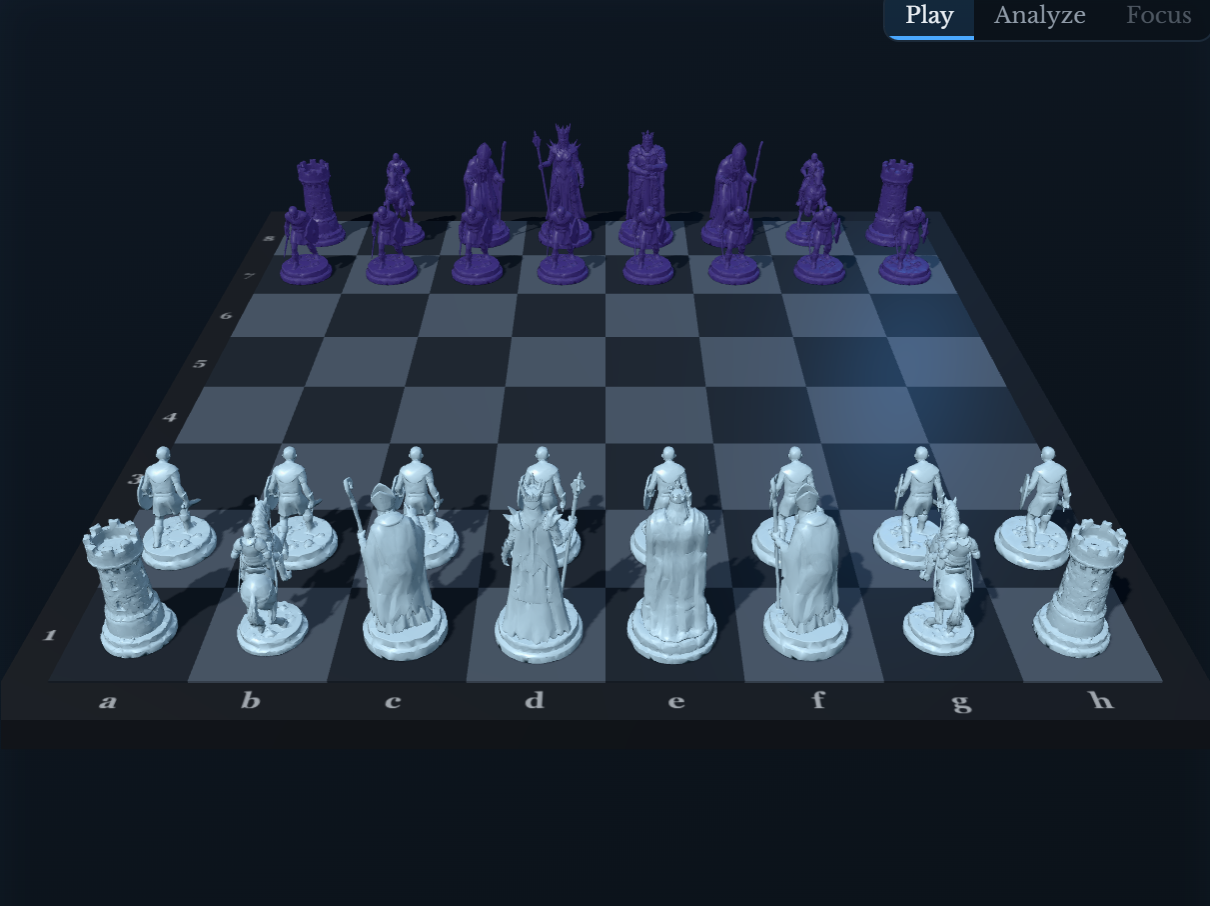
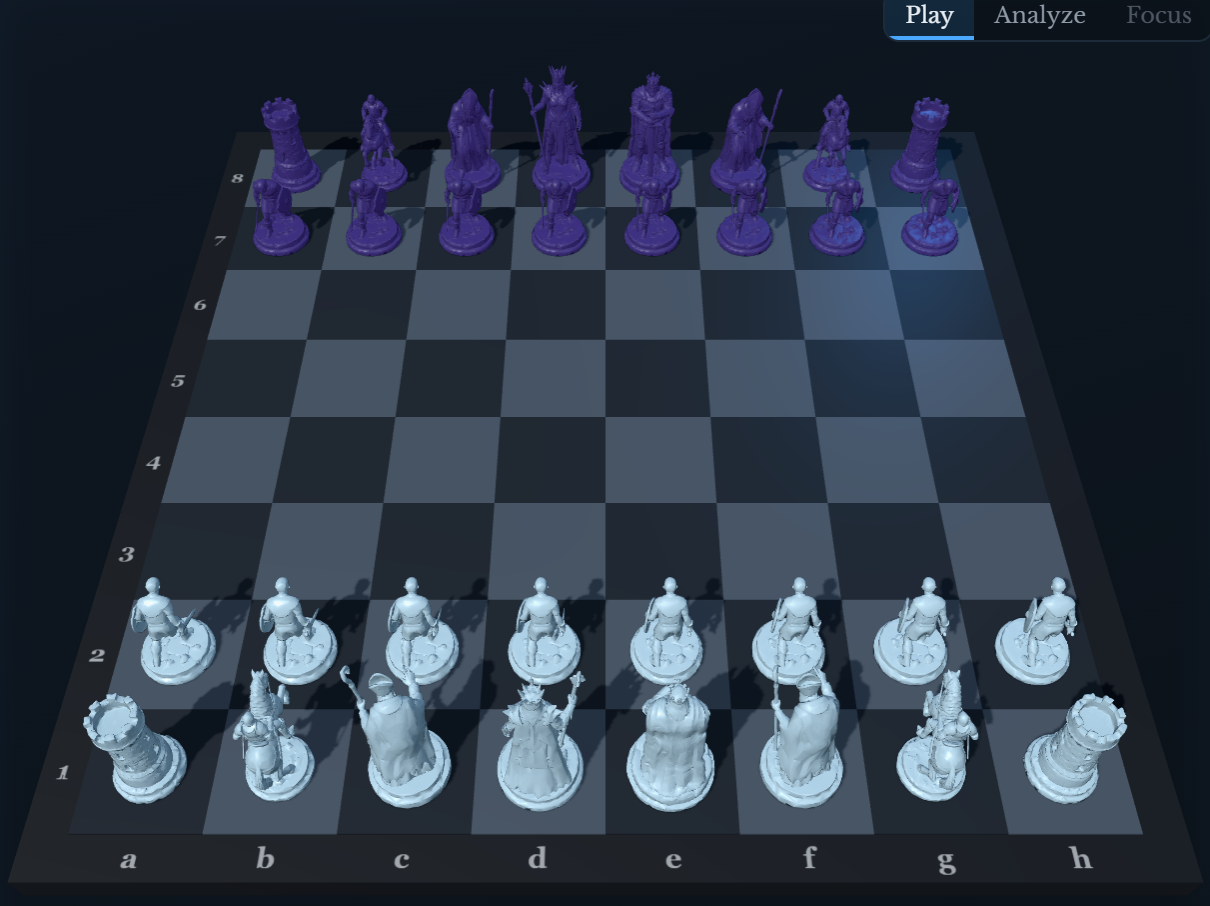
Raise and tighten the 3D Play camera
The camera looks down at about 52 degrees and sits closer, so the board
fills the frame and no piece hides the one behind it.

diff --git a/web/src/components/Board3D.tsx b/web/src/components/Board3D.tsx
@@ -1274,8 +1274,9 @@ function createWorld(canvas: HTMLCanvasElement) {
       look.copy(centre).setY(0.3);
       to.set(centre.x, (2.7 + 1.5 * reach) * distance, centre.z + (3.7 + 1.9 * reach) * side * distance);
     } else if (view === 'play') {
-      to.set(0, 6.2 * distance, 10 * side * distance);
-      look.set(0, -0.2, 0.75 * side);
+      // High enough that the back rank does not hide the pawns in front of it, and close enough that the board fills the frame.
+      to.set(0, 8.7 * distance, 7.1 * side * distance);
+      look.set(0, 0, 0.35 * side);
     } else {
       to.set(0, 10.4 * distance, 6.3 * side * distance);
       look.set(0, 0, 0.45 * side);
